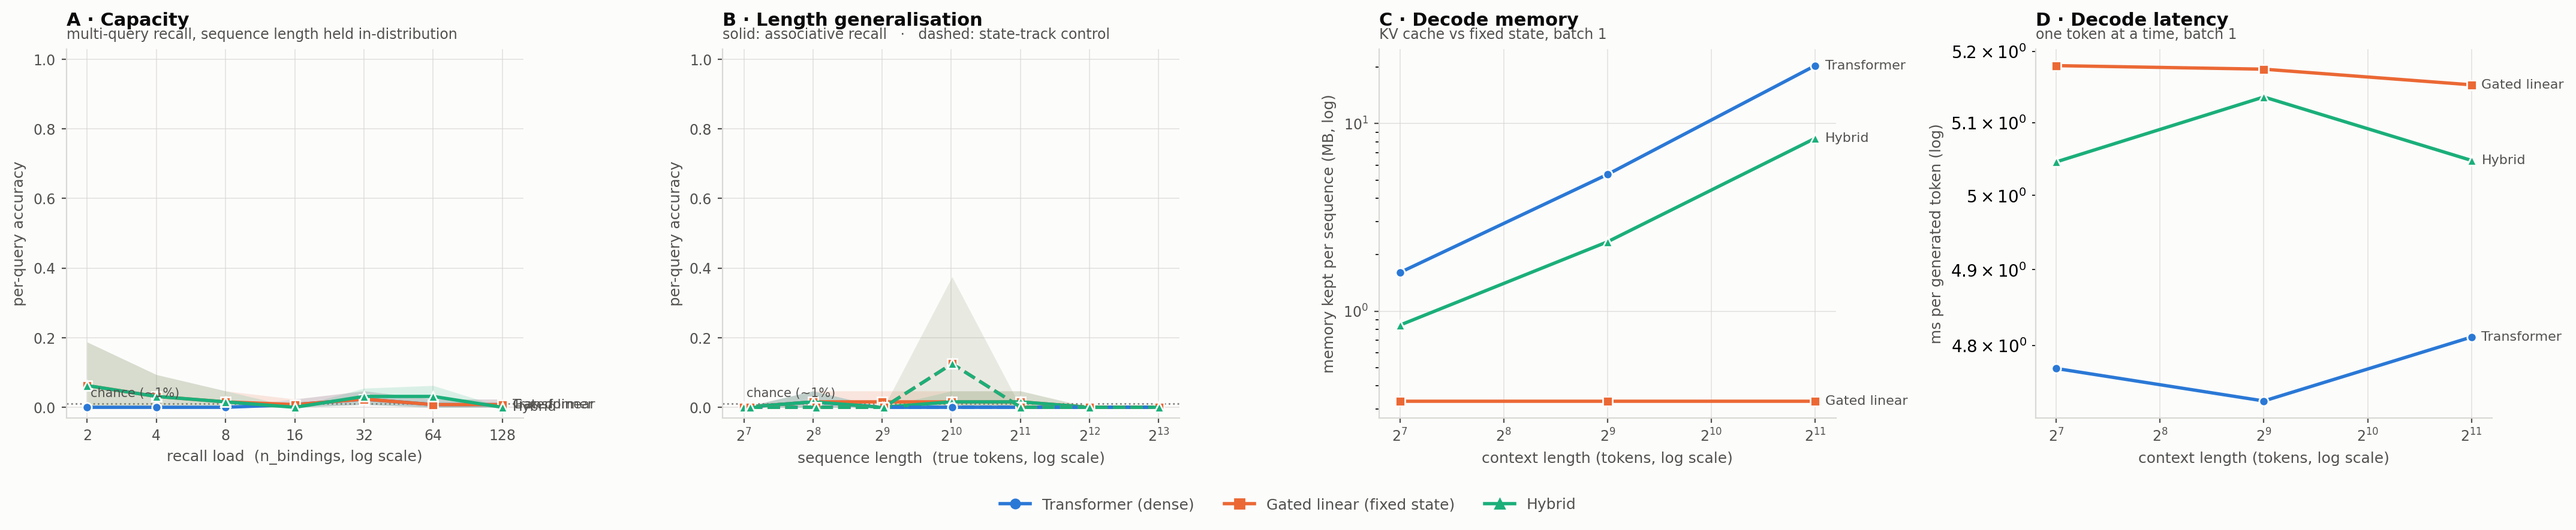
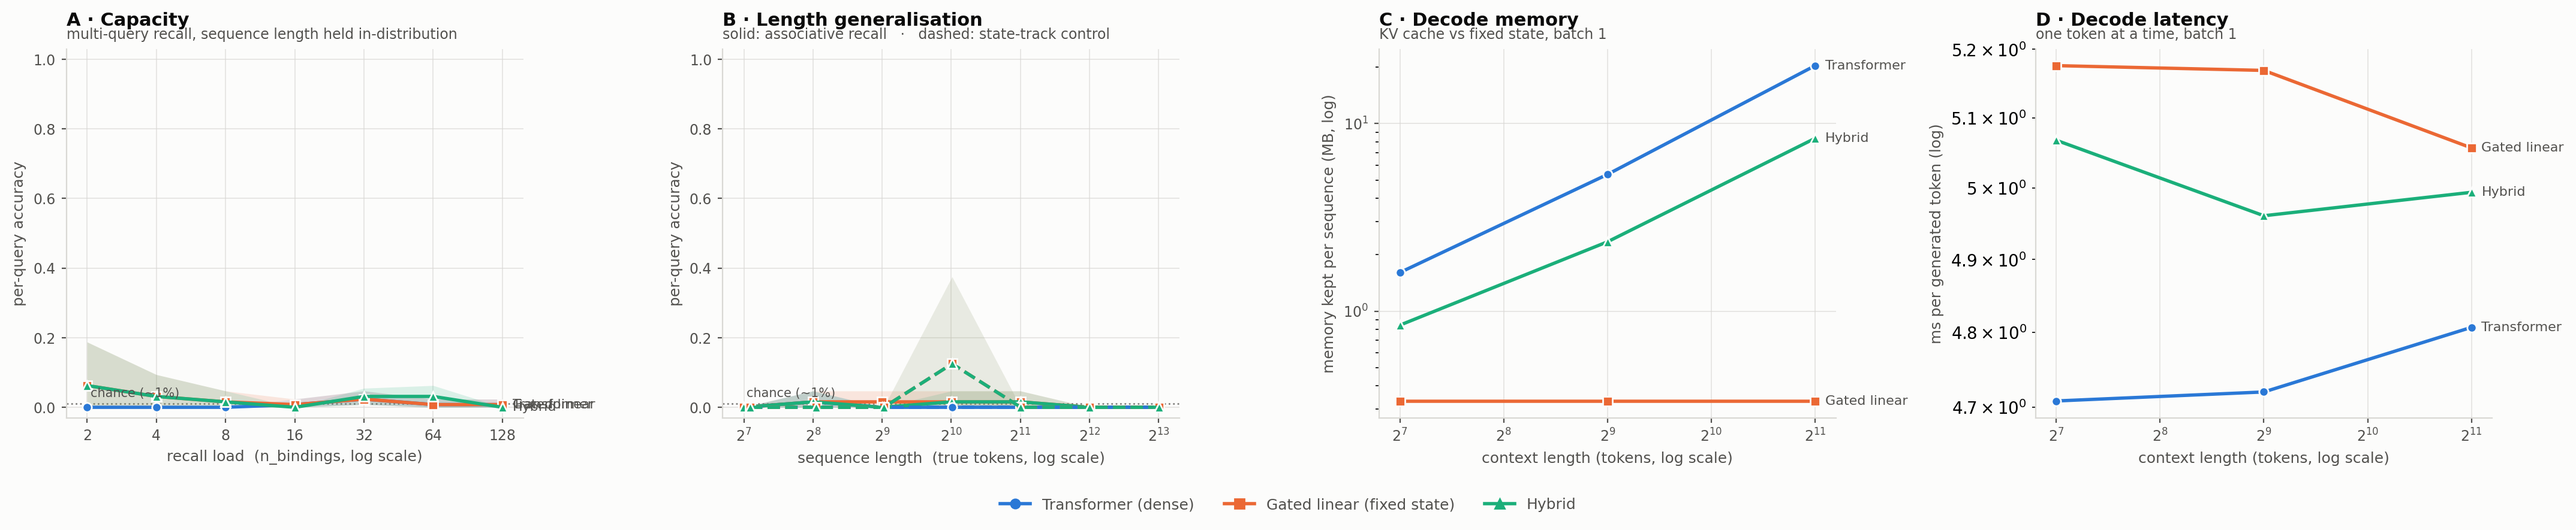
results: r05-smoke after plot

diff --git a/README.md b/README.md
@@ -4,7 +4,7 @@ Written automatically by `scripts/sync_results.py`. Never merge this branch into
 
 | run | updated | last stage | device | code |
 |---|---|---|---|---|
-| [r05-smoke](runs/r05-smoke/SUMMARY.md) | 2026-10-04 06:26 UTC | profile | Tesla T4 | `e713514` |
+| [r05-smoke](runs/r05-smoke/SUMMARY.md) | 2026-10-04 06:26 UTC | plot | Tesla T4 | `e713514` |
 | [r05](runs/r05/SUMMARY.md) | 2026-10-04 04:35 UTC | eval 4 | Tesla T4 | `e713514` |
 | [r04](runs/r04/SUMMARY.md) | 2026-10-03 22:13 UTC | eval 4 | Tesla T4 | `5a453bd` |
 | [r04-smoke](runs/r04-smoke/SUMMARY.md) | 2026-10-03 06:16 UTC | plot | Tesla T4 | `f6b589e` |

diff --git a/runs/r05-smoke/SUMMARY.md b/runs/r05-smoke/SUMMARY.md
@@ -1,6 +1,6 @@
 # iota run `r05-smoke`
 
-- **updated:** 2026-10-04 06:26 UTC (last stage: `profile`)
+- **updated:** 2026-10-04 06:26 UTC (last stage: `plot`)
 - **code:** `e713514` on `main`
 - **device:** Tesla T4 · torch 2.10.0+cu128 · Kaggle Batch
 
